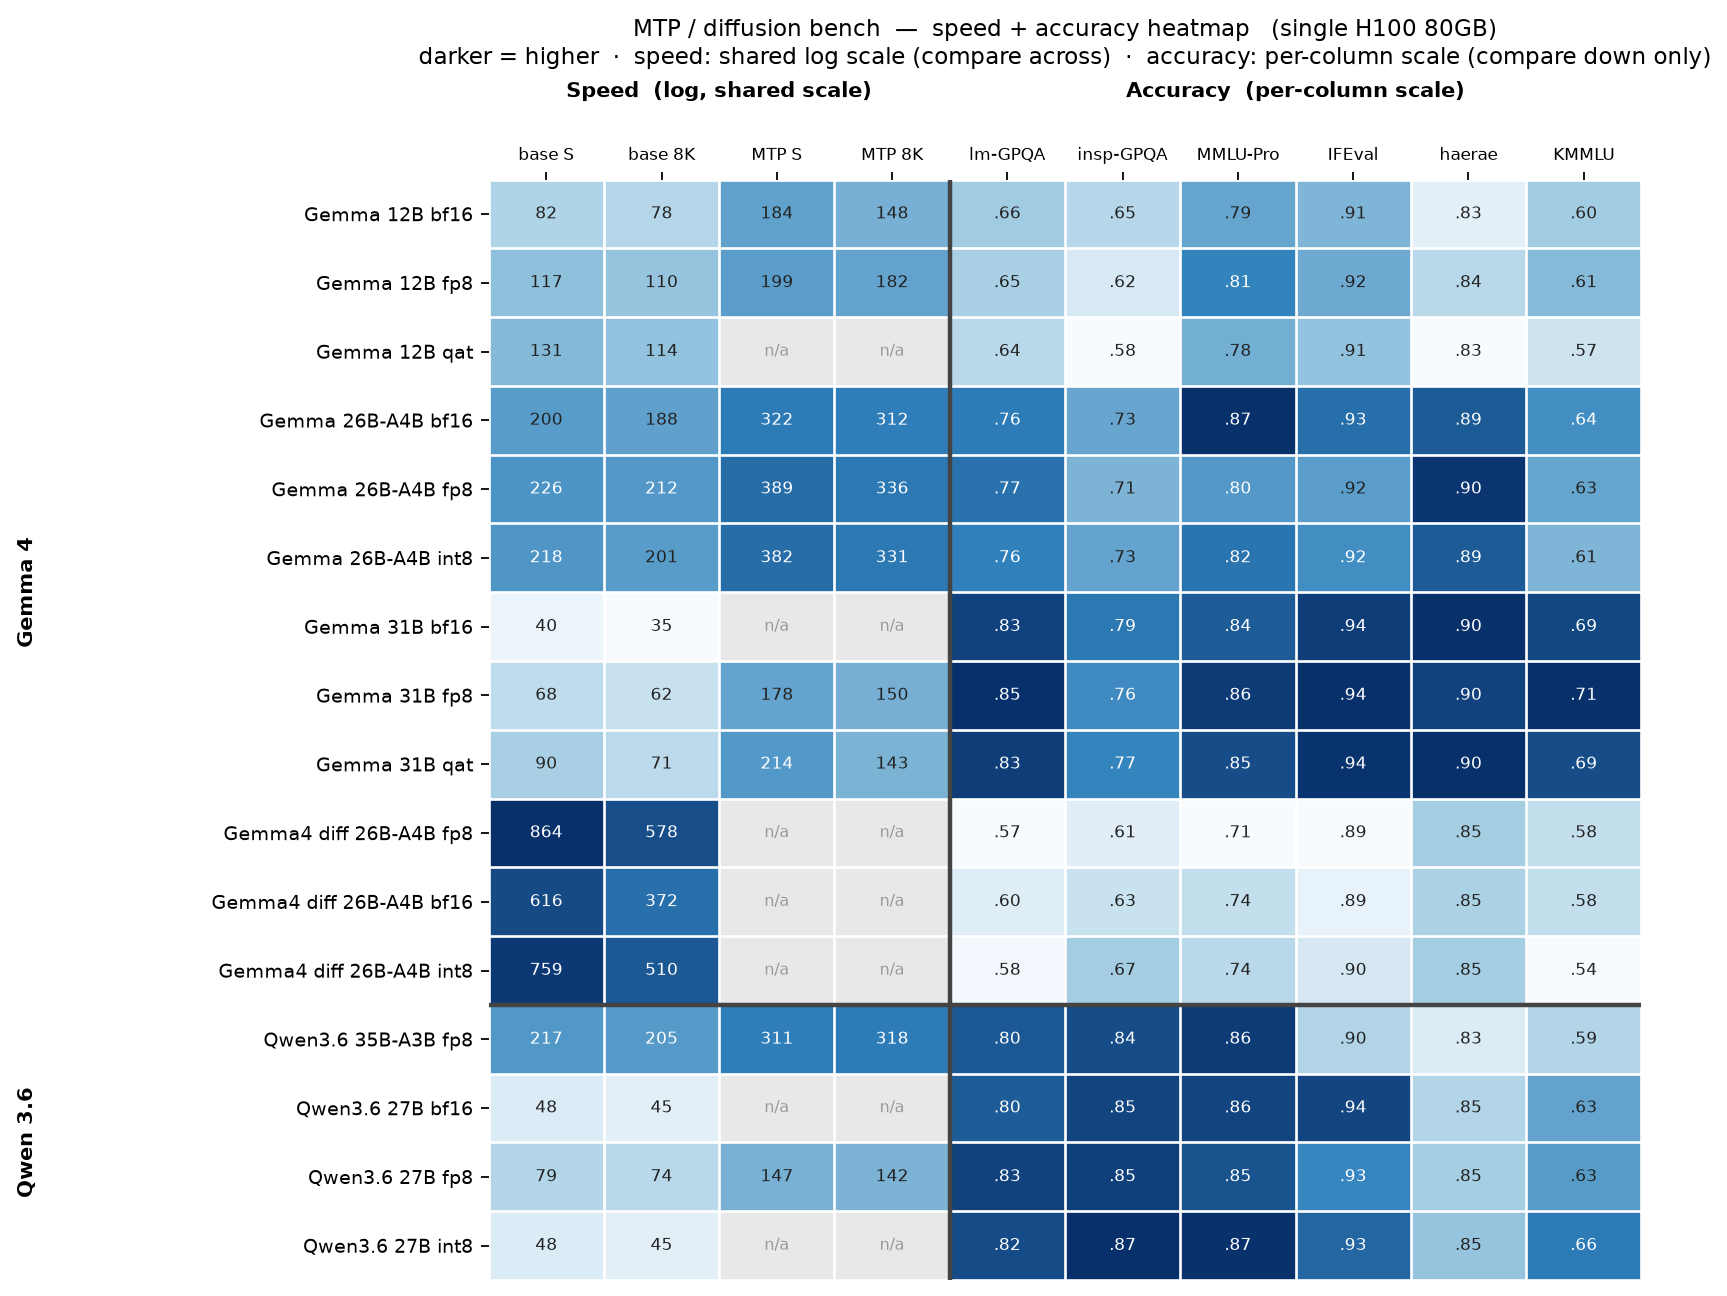
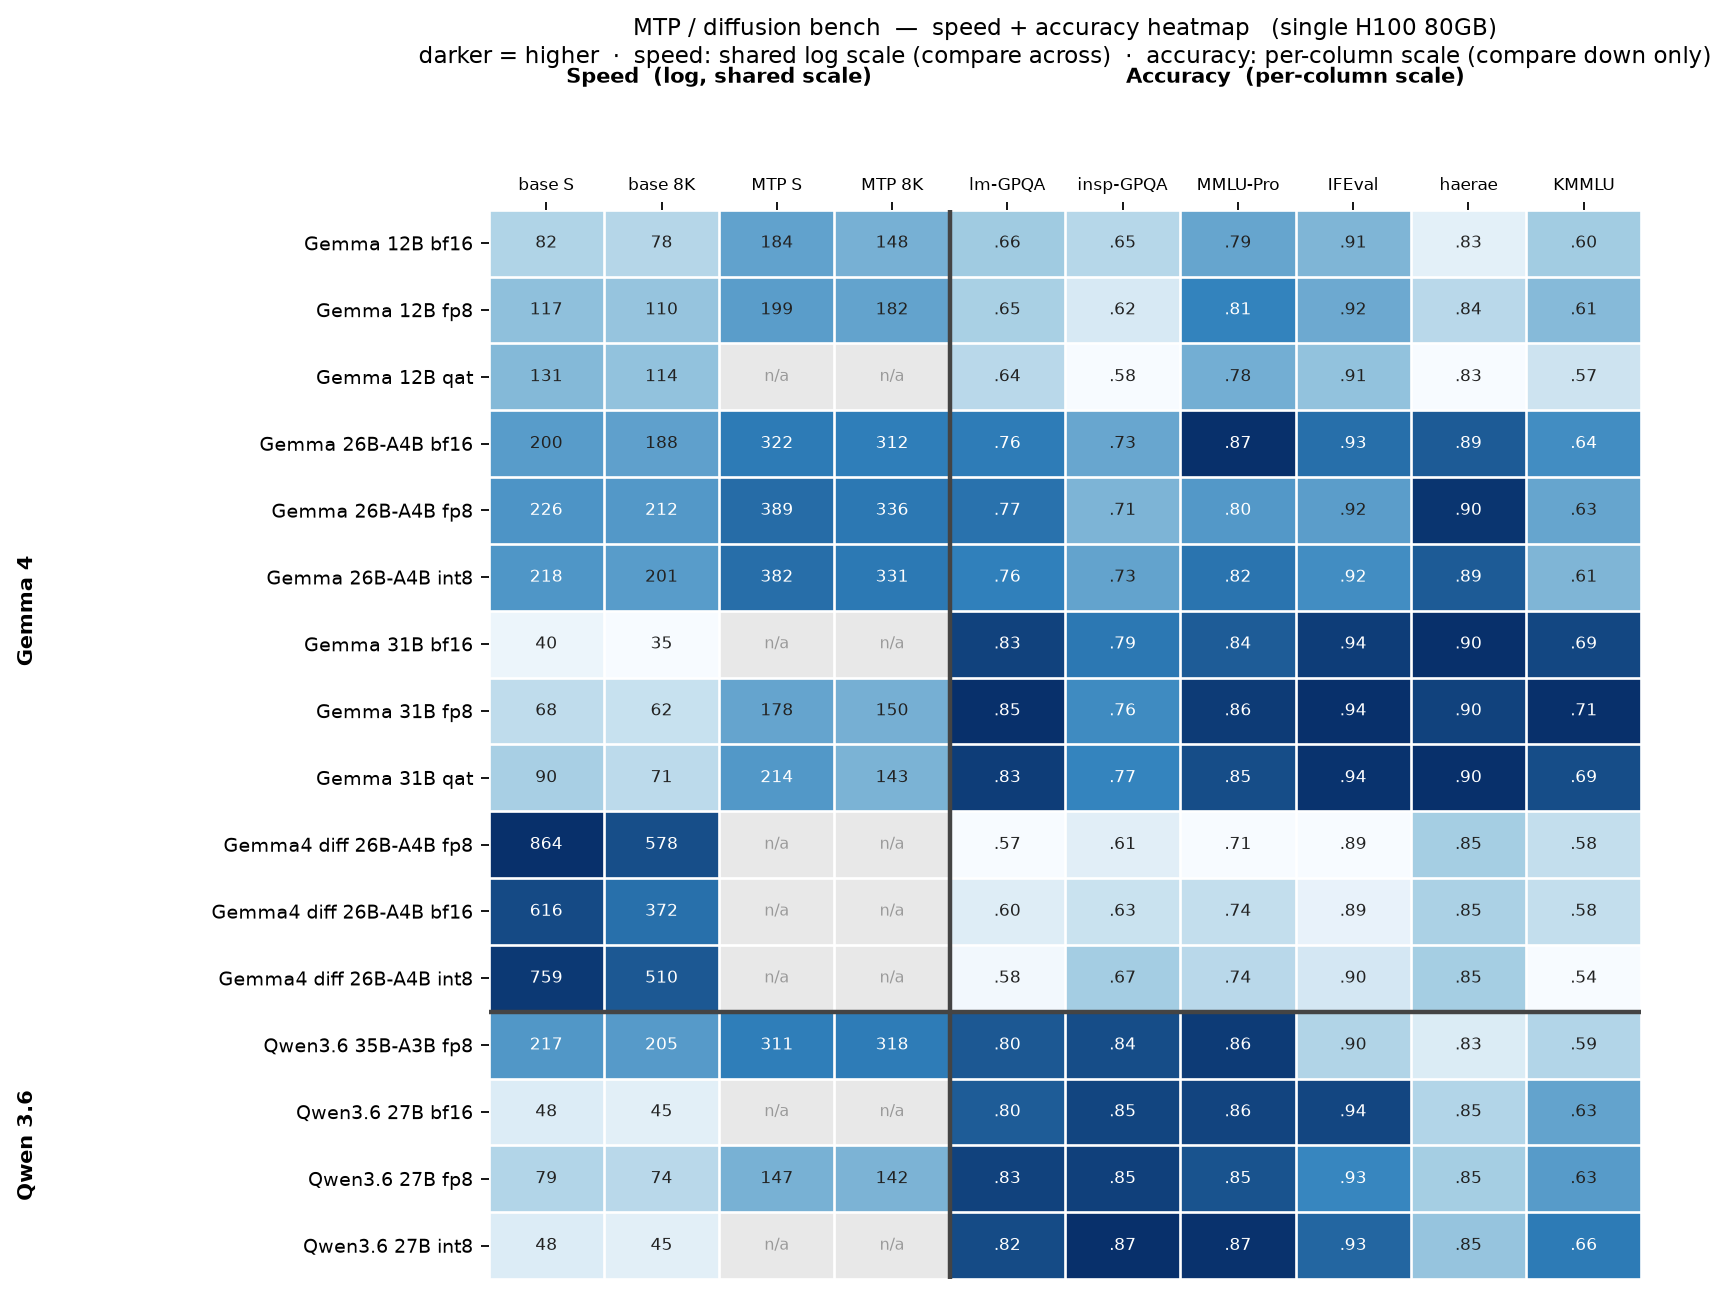
docs(heatmap): 제목에 single H100 80GB 명시 + 그룹 헤더 위로 올려 열 라벨 겹침 완전 제거

diff --git a/report/make_heatmap.py b/report/make_heatmap.py
@@ -93,8 +93,8 @@ plt.setp(ax.get_xticklabels(), rotation=0, ha="center")
 ax.axvline(3.5, color="#444", lw=2)
 ax.axhline(11.5, color="#444", lw=2)
 # 그룹 헤더 (수평 열 라벨 위로 충분히 띄움)
-ax.text(1.5, -1.7, "Speed  (log, shared scale)", ha="center", fontsize=9.5, weight="bold")
-ax.text(6.5, -1.7, "Accuracy  (per-column scale)", ha="center", fontsize=9.5, weight="bold")
+ax.text(1.5, -2.4, "Speed  (log, shared scale)", ha="center", fontsize=9.5, weight="bold")
+ax.text(6.5, -2.4, "Accuracy  (per-column scale)", ha="center", fontsize=9.5, weight="bold")
 ax.text(-4.6, 5.5, "Gemma 4", rotation=90, va="center", fontsize=9.5, weight="bold")
 ax.text(-4.6, 13.5, "Qwen 3.6", rotation=90, va="center", fontsize=9.5, weight="bold")
 
@@ -108,7 +108,7 @@ for s in ax.spines.values():
 ax.set_title("MTP / diffusion bench  —  speed + accuracy heatmap   (single H100 80GB)\n"
              "darker = higher  ·  speed: shared log scale (compare across)  ·  "
              "accuracy: per-column scale (compare down only)",
-             fontsize=10.5, pad=52)
+             fontsize=10.5, pad=66)
 fig.tight_layout()
 out = "report/heatmap.png"
 fig.savefig(out, dpi=160, bbox_inches="tight", facecolor="white")